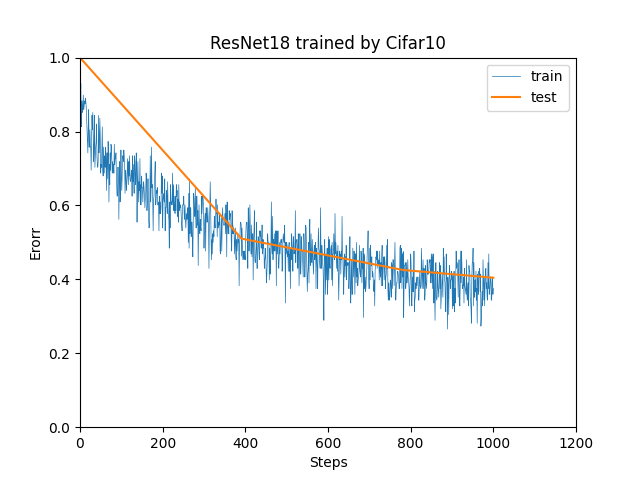
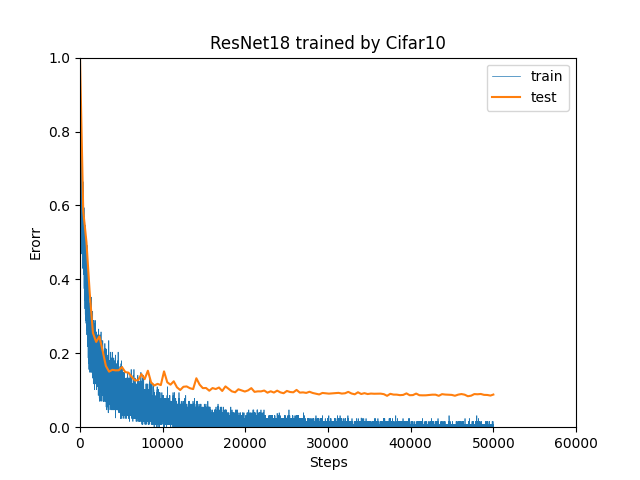
update

Changed region(s): [[0.125, 0.125, 0.8125, 0.9375], [0.8438, 0.9062, 0.9375, 0.9375], [0.1875, 0.2188, 0.2188, 0.25]]

diff --git a/workspace/research/dd.py b/workspace/research/dd.py
@@ -14,64 +14,8 @@ import random
 import matplotlib.pyplot as plt
 import csv 
 import warnings
-
+    
 def main():
-    epochs = 100
-    device = 'cuda' if torch.cuda.is_available() else 'cpu'
-    transform_train = transforms.Compose([
-        transforms.RandomCrop(32, padding=4),
-        transforms.RandomHorizontalFlip(),
-        transforms.ToTensor(),
-        transforms.Normalize((0.4914, 0.4822, 0.4465), (0.2023, 0.1994, 0.2010)),
-    ])
-    transform_test = transforms.Compose([
-        transforms.ToTensor(),
-        transforms.Normalize((0.4914, 0.4822, 0.4465), (0.2023, 0.1994, 0.2010)),
-    ])
-    train_set = torchvision.datasets.CIFAR10(root='./data', train=True, download=True, transform=transform_train)
-    train_loader = torch.utils.data.DataLoader(train_set, batch_size=128, shuffle=True, num_workers=2)
-    test_set = torchvision.datasets.CIFAR10(root='./data', train=False, download=True, transform=transform_train)
-    test_loader = torch.utils.data.DataLoader(test_set, batch_size=128, shuffle=True, num_workers=2)
-    class_names = ('plane', 'car', 'bird', 'cat', 'dog', 'frog', 'ship', 'truck')
-    model = torchvision.models.resnet18(pretrained=False)
-    model = model.to(device)
-
-    criterion = nn.CrossEntropyLoss()
-    optimizer = optim.SGD(model.parameters(), lr=0.1)
-    x = []
-    tracc = []
-    teacc = []
-    x.append(0)
-    tracc.append(0)
-    teacc.append(0)
-    data_save = []
-    for epoch in range(epochs):
-        train_acc, train_loss = train(model, device, train_loader, criterion, optimizer)
-        test_acc, test_loss = test(model, device, test_loader, criterion)
-        stdout_temp = 'epoch: {:>3}, train acc: {:<8}, train loss: {:<8}, test acc: {:<8}, test loss: {:<8}'
-        print(stdout_temp.format(epoch+1, train_acc, train_loss, test_acc, test_loss))
-        print('')
-        data_save.append([epoch,test_acc])
-        x.append(epoch + 1)
-        tracc.append(train_acc)
-        teacc.append(test_acc)
-
-    
-    with open('resnet18-cifat10.csv','w') as file:
-        writer = csv.writer(file)
-        writer.writerows(data_save)
-    
-    plt.title("ResNet18 trained by Cifar10")
-    plt.xlim(0, epochs * 1.2)
-    plt.ylim(0, 1)
-    plt.xlabel("Epochs")
-    plt.ylabel("Accuracy")
-    plt.plot(x, tracc, label = 'train')
-    plt.plot(x, teacc, label = 'test')
-    plt.legend(loc='upper right')
-    plt.savefig("sample.png")
-    
-def sub():
     args = parse_args()
     #step数指定
     grad_steps = args.grad_steps
@@ -101,7 +45,7 @@ def sub():
     model = resnet18k.make_resnet18k(k=args.model_width)
     model = model.to(device)
     
-    criterion = nn.CrossEntropyLoss()
+    criterion = nn.CrossEntropyLoss(label_smoothing=0.1)
     optimizer = optim.SGD(model.parameters(), lr=0.1)
     def func(steps):
         if steps < 512:
@@ -151,11 +95,11 @@ def sub():
         teerr.append(1.0 - test_acc)
         x2.append(count)
     
-    # with open('resnet18-cifat10.csv','w') as file:
+    # with open('resnet18*' + str(args.model_width) + '-cifat10.csv','w') as file:
     #     writer = csv.writer(file)
     #     writer.writerows(data_save)
     
-    plt.title("ResNet18 trained by Cifar10")
+    plt.title("ResNet18*" + str(args.model_width) + " trained by Cifar10")
     plt.xlim(0, grad_steps * 1.2)
     plt.ylim(0, 1)
     plt.xlabel("Steps")
@@ -163,7 +107,7 @@ def sub():
     plt.plot(x1, trerr, label = 'train', linewidth=0.5)
     plt.plot(x2, teerr, label = 'test')
     plt.legend(loc='upper right')
-    plt.savefig("sample1.png")
+    plt.savefig("./output/ResNet18*" + str(args.model_width) + "TrainedByCifar10.png")
 
 
     
@@ -236,8 +180,7 @@ def parse_args():
 
 if __name__ =='__main__':
     warnings.filterwarnings('ignore')
-    # main()
     import time
     start = time.perf_counter()
-    sub()
+    main()
     print(time.perf_counter() - start)
